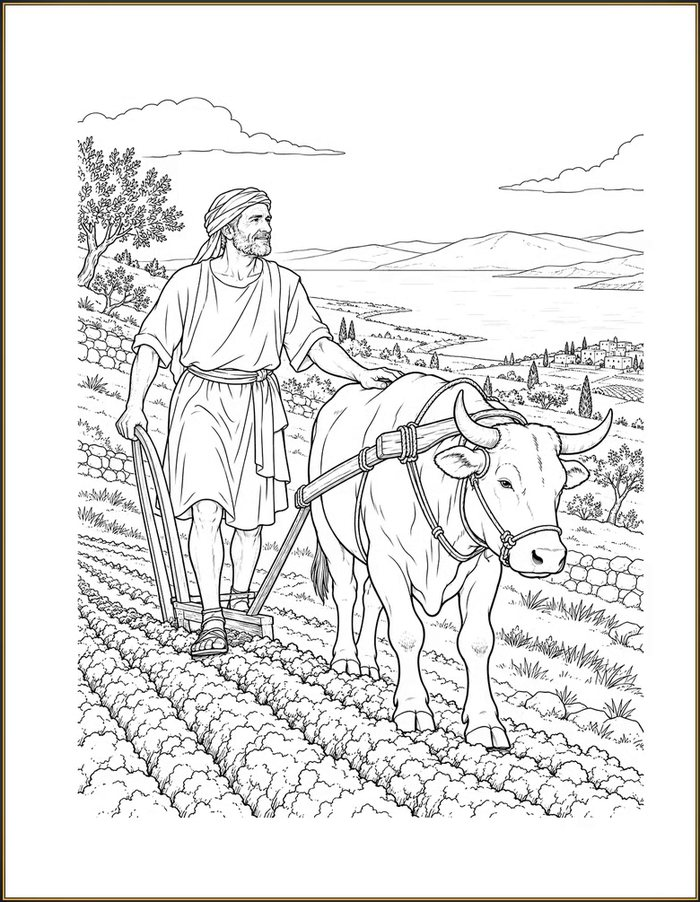
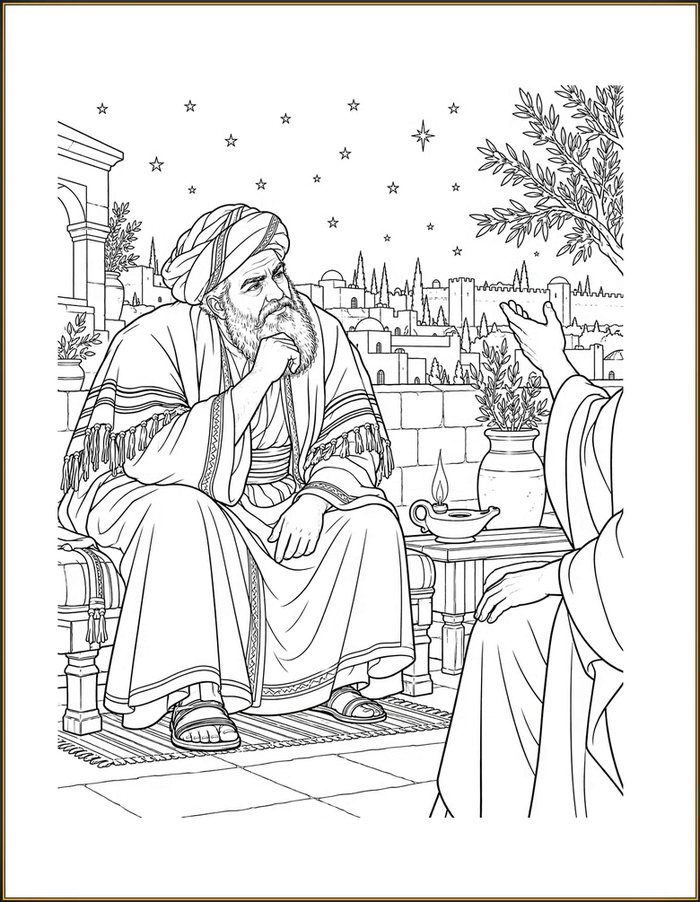
Kids Beatitudes cards: show only pages from the Kids edition
Claude-Session: https://claude.ai/code/session_01KtmkHmxrhBvvwMC964gjCu

diff --git a/products.js b/products.js
@@ -212,7 +212,7 @@ const PRODUCTS = [
     id: "beatitudes-kids",
     images: [
       { src: "images/shop/beatitudes-kids-1.jpg", alt: "Coloring page: the tax collector praying at the temple, from Luke 18." },
-      { src: "images/shop/beatitudes-kids-2.jpg", alt: "Coloring page for The Meek (Matthew 5:5): a farmer plowing a field with an ox." }
+      { src: "images/shop/beatitudes-kids-2.jpg", alt: "Coloring page: a man sitting and listening on a rooftop at night, by lamplight." }
     ],
     category: "Coloring books and planners",
     name: "The Beatitudes: Kids Edition",
@@ -296,7 +296,7 @@ const PRODUCTS = [
     id: "beatitudes-kids-es",
     images: [
       { src: "images/shop/beatitudes-kids-es-1.jpg", alt: "Página para colorear: el publicano orando en el templo (Lucas 18)." },
-      { src: "images/shop/beatitudes-kids-es-2.jpg", alt: "Página para colorear de «Los mansos» (Mateo 5:5): un agricultor arando un campo con un buey." }
+      { src: "images/shop/beatitudes-kids-es-2.jpg", alt: "Página para colorear: un hombre sentado escuchando en una azotea de noche, a la luz de una lámpara." }
     ],
     category: "Coloring books in Spanish (Libros para colorear en español)",
     name: "Las Bienaventuranzas: Libro para colorear para niños (Spanish edition)",
